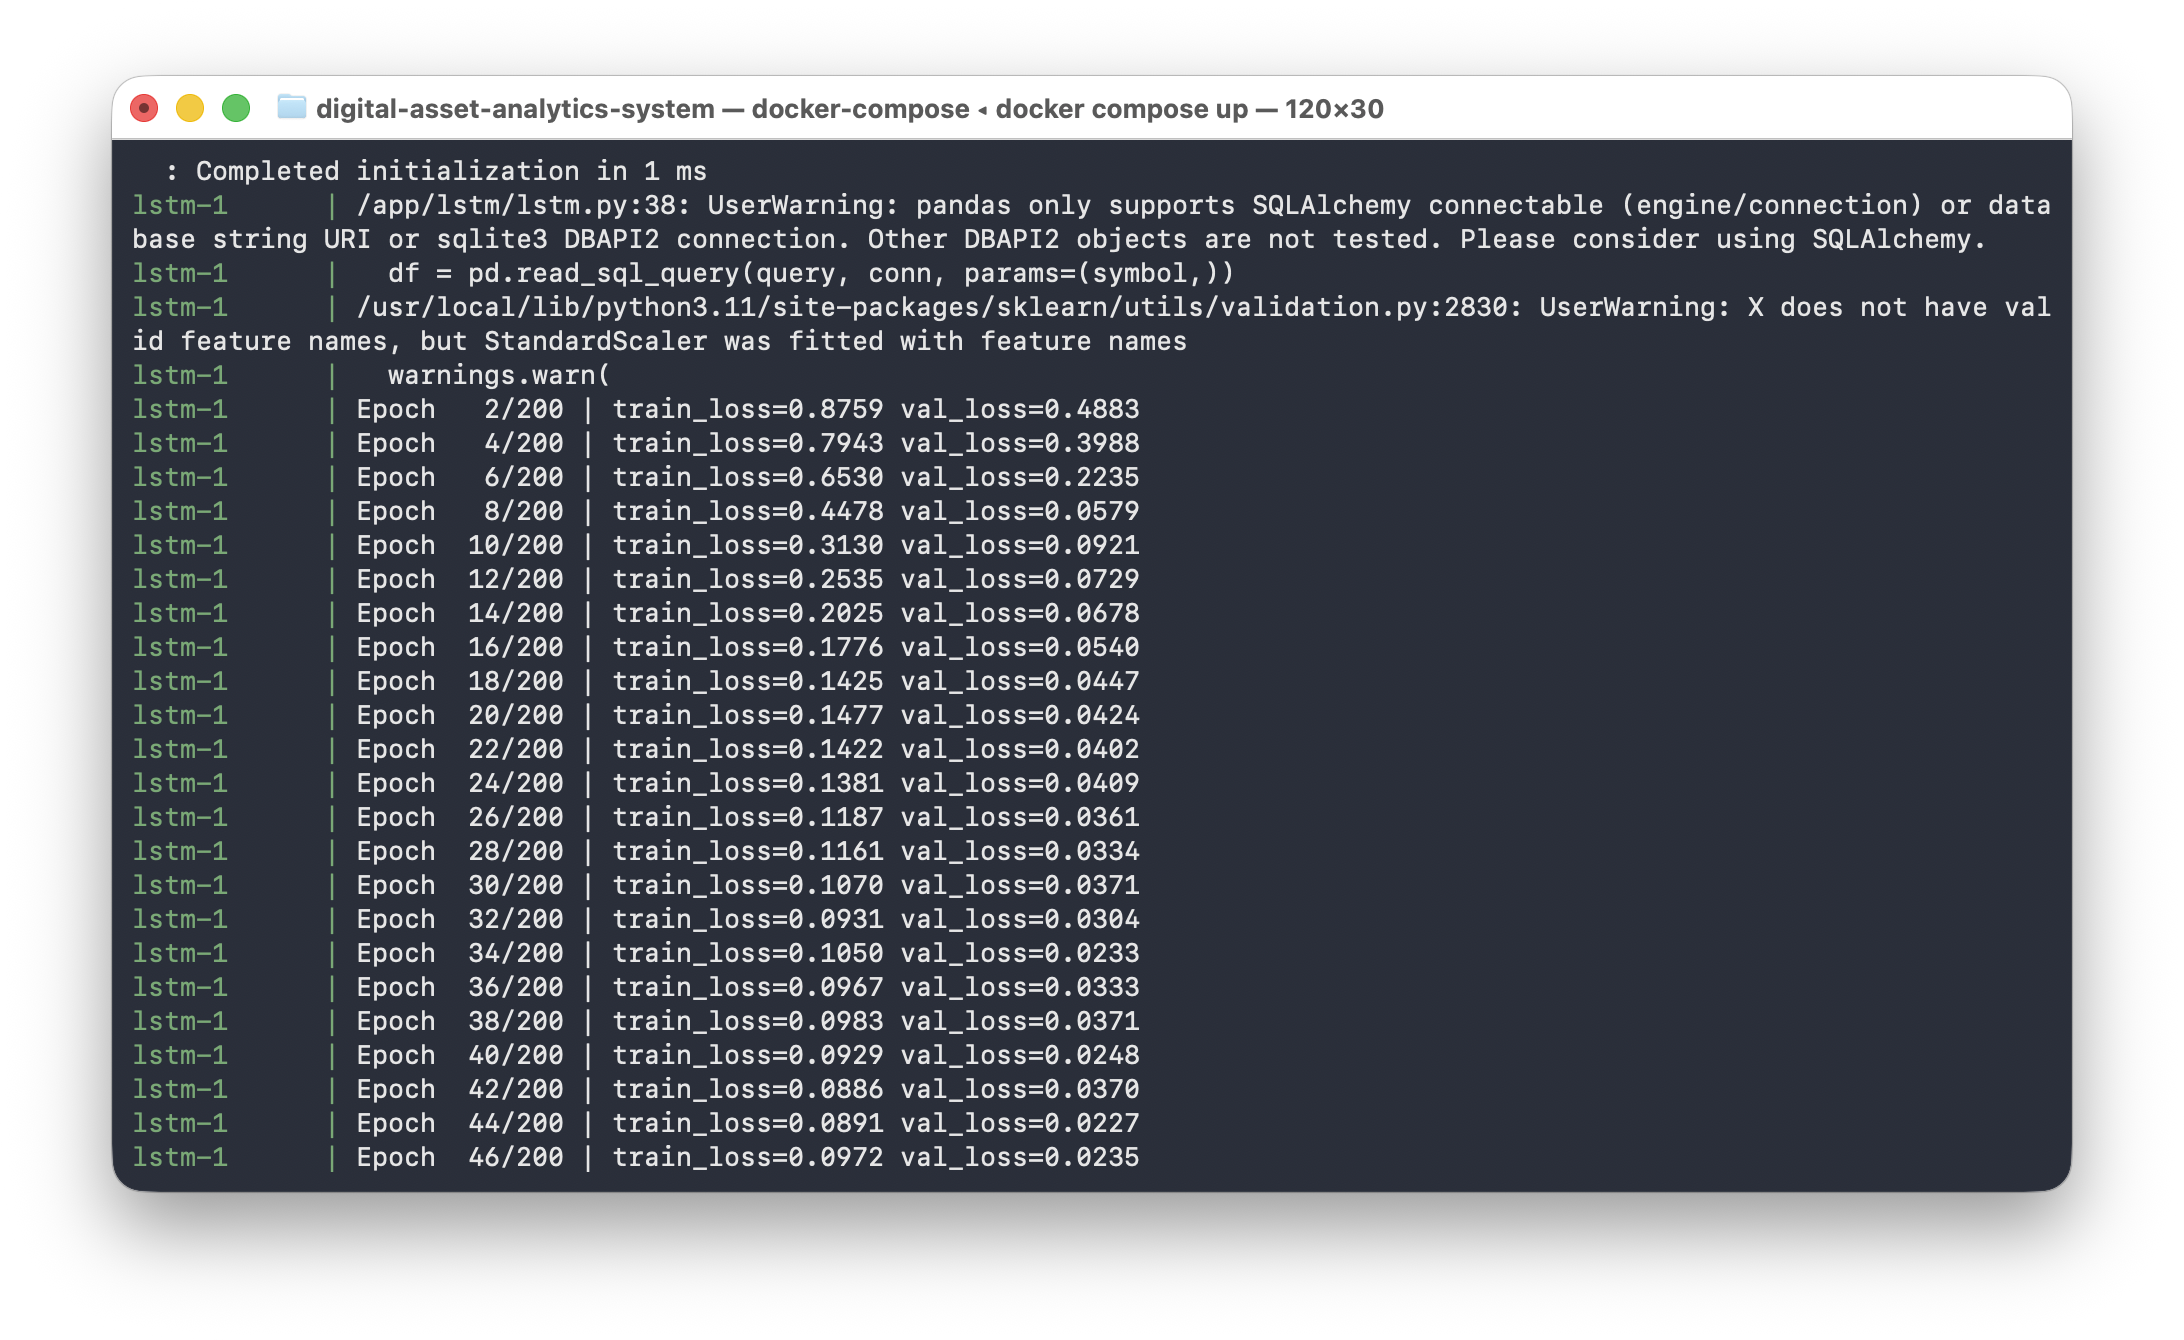
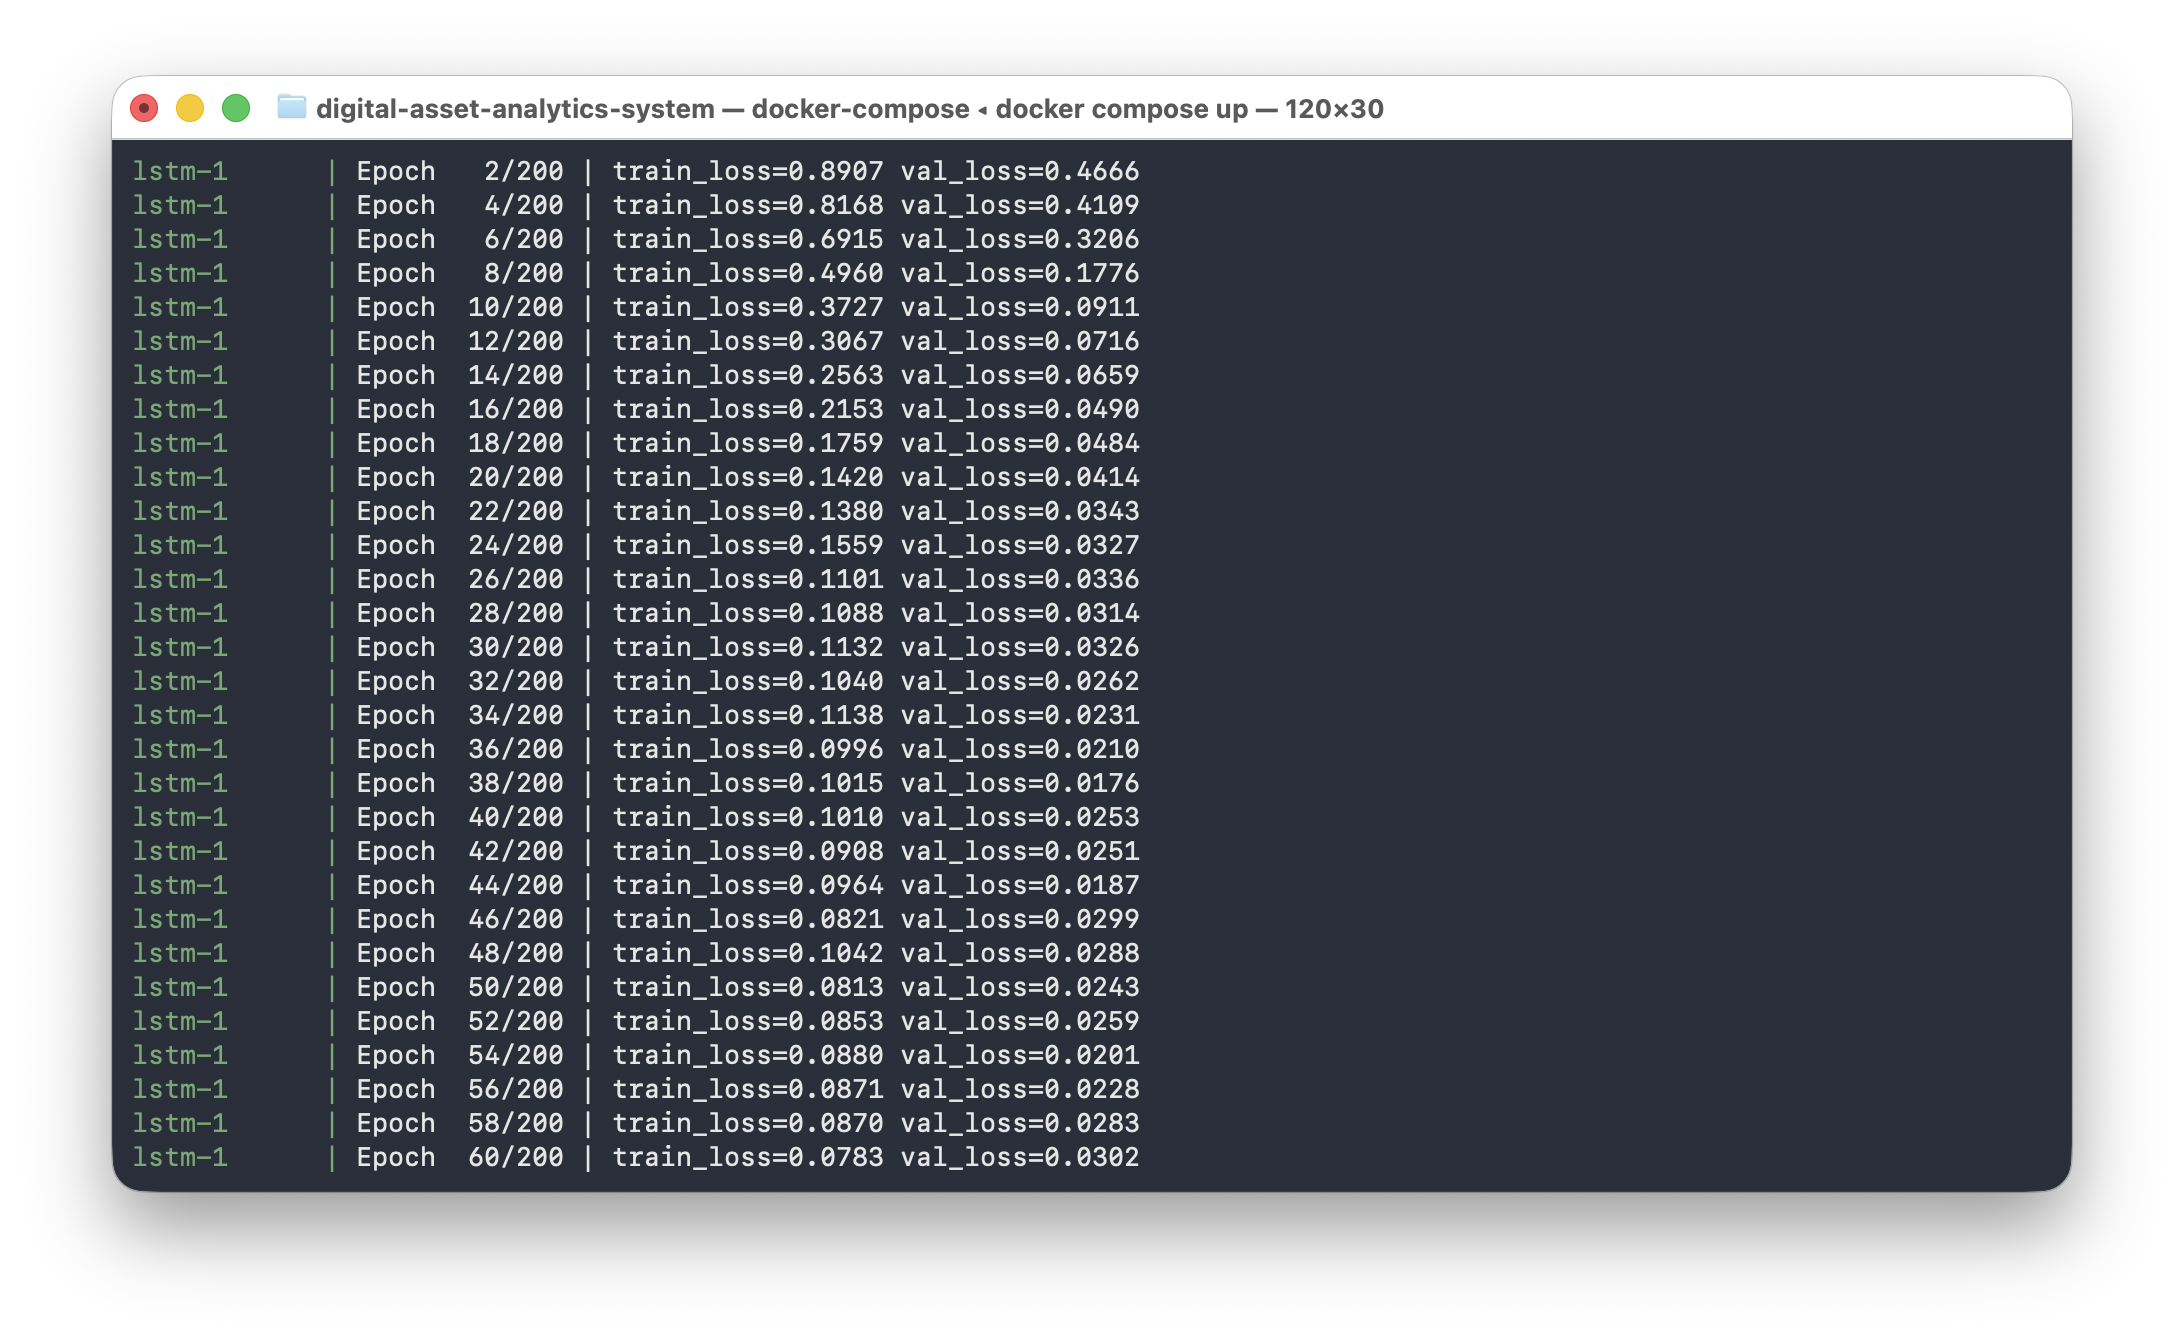
added demos

diff --git a/README.md b/README.md
@@ -154,6 +154,14 @@ The LSTM microservice trains a neural network over 200 epochs. The training and 
 
 ---
 
+## User Interface Demonstration
+
+<img src="screenshots/3.png" width="600"/>
+<img src="screenshots/4.png" width="600"/>
+<img src="screenshots/5.png" width="600"/>
+
+---
+
 ## Running the Project
 
 ```bash
